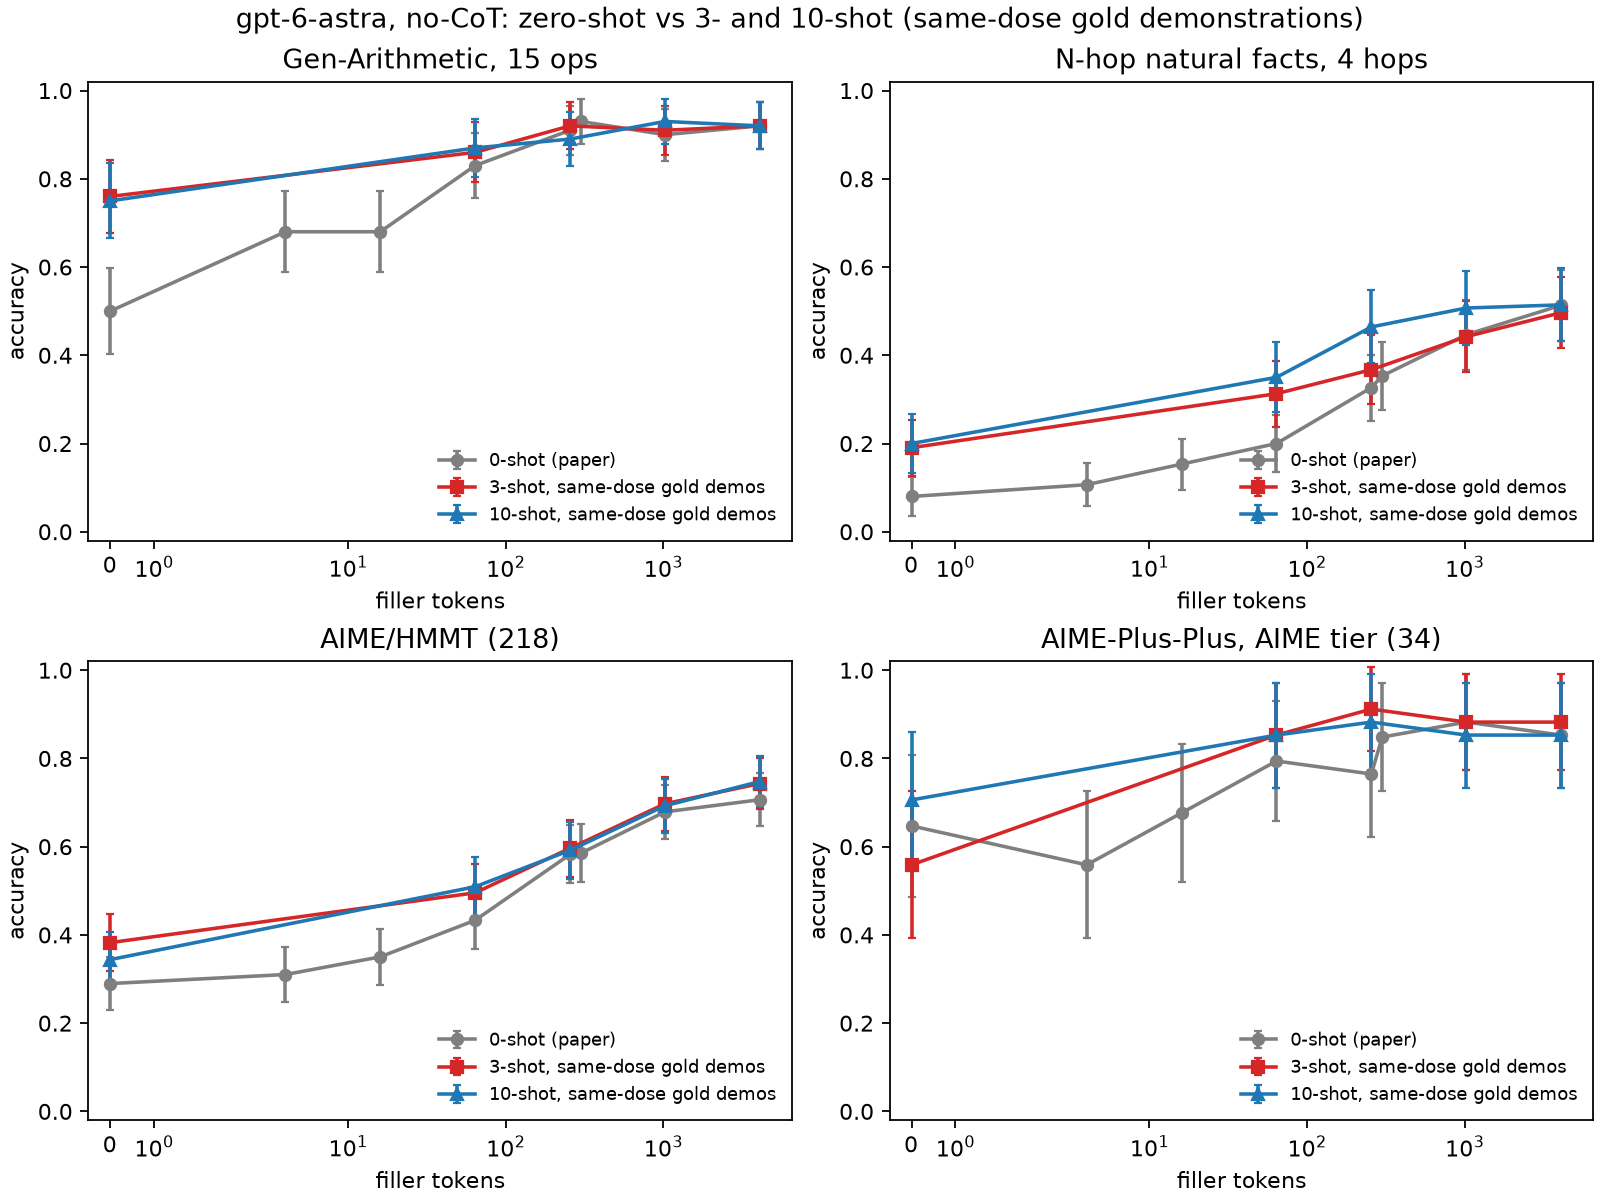
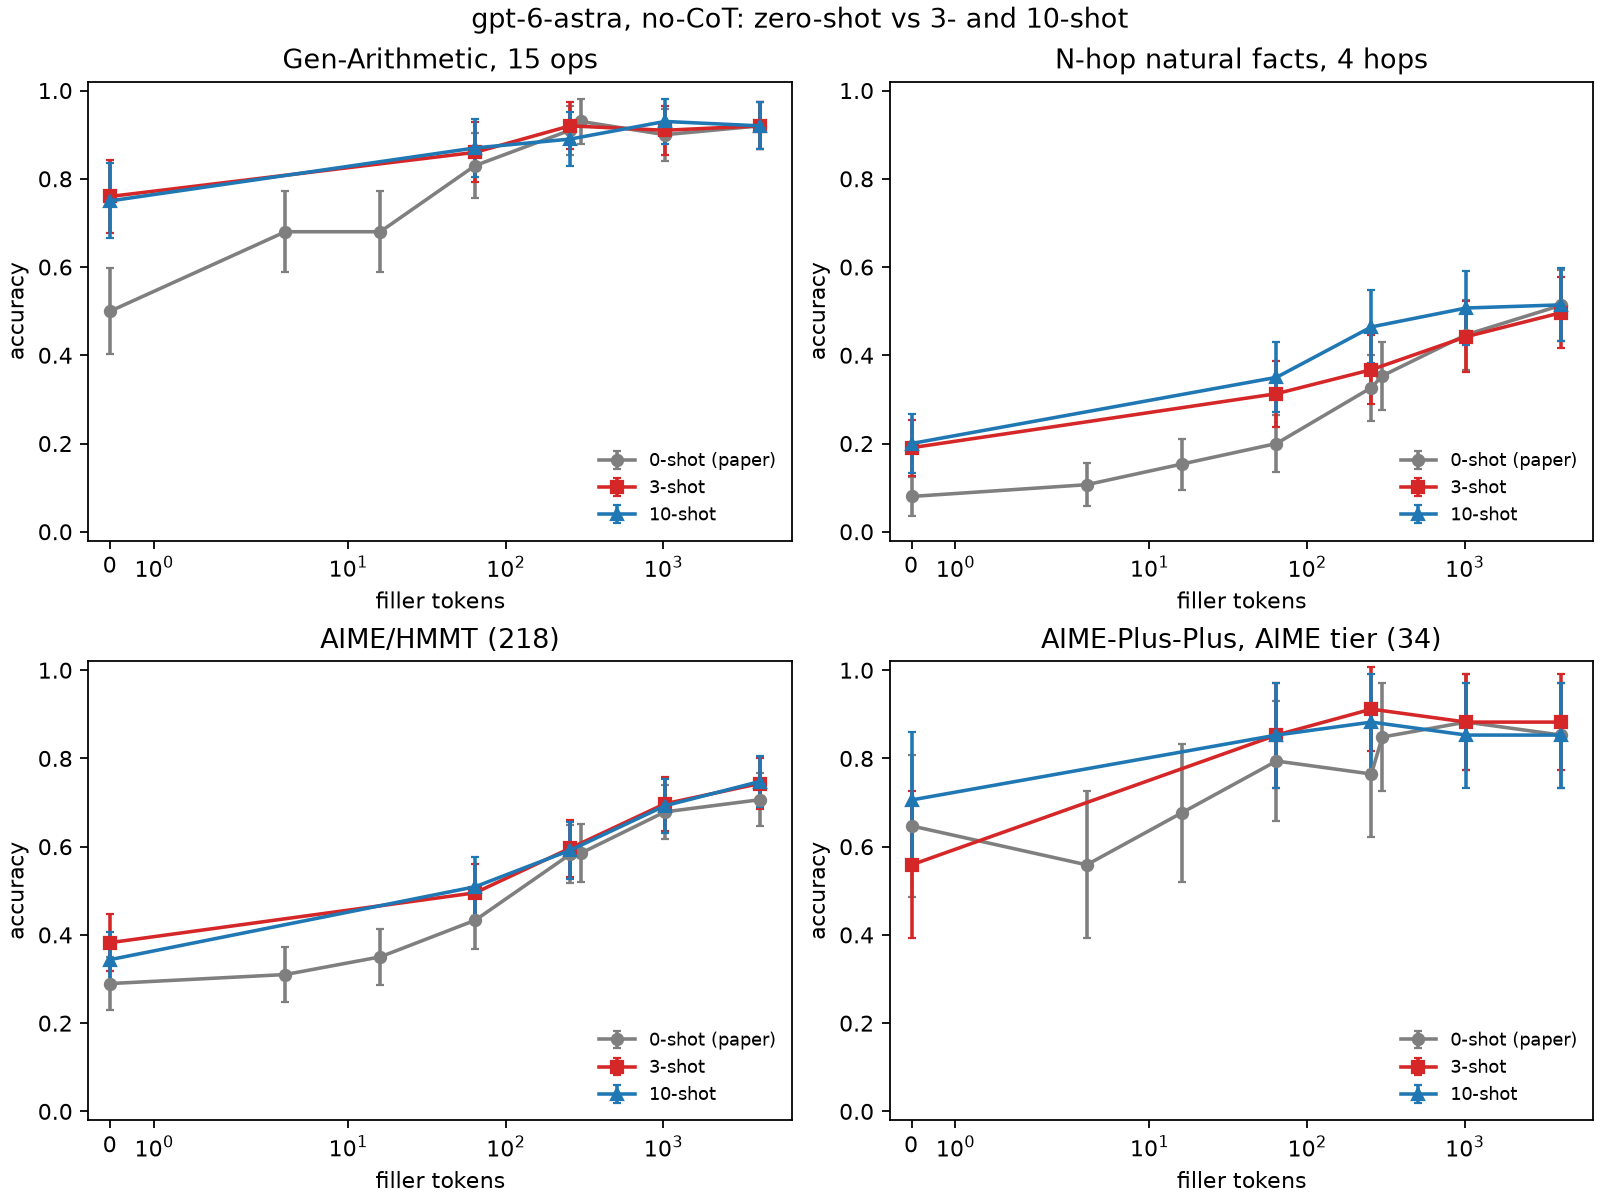
fewshot_astra figure: shorter legend and title

diff --git a/src/nf/fewshot_astra.py b/src/nf/fewshot_astra.py
@@ -61,8 +61,8 @@ def main():
     for ax, (key, (task, depth, ztag, title)) in zip(axes.flat, PANELS.items()):
         for label, d, col, mk in (
             ("0-shot (paper)", _select(zero[ztag], task, depth), "tab:gray", "o"),
-            ("3-shot, same-dose gold demos", _select(few, task, depth), "tab:red", "s"),
-            ("10-shot, same-dose gold demos", _select(few10, task, depth), "tab:blue", "^"),
+            ("3-shot", _select(few, task, depth), "tab:red", "s"),
+            ("10-shot", _select(few10, task, depth), "tab:blue", "^"),
         ):
             g = _curve(d)
             ax.errorbar(
@@ -90,7 +90,7 @@ def main():
         ax.set_xscale("symlog", linthresh=4)
         ax.set(xlim=(-0.5, MAX_K * 1.6), ylim=(-0.02, 1.02), title=title, xlabel="filler tokens", ylabel="accuracy")
         ax.legend(frameon=False, fontsize=8, loc="lower right")
-    fig.suptitle("gpt-6-astra, no-CoT: zero-shot vs 3- and 10-shot (same-dose gold demonstrations)", fontsize=12)
+    fig.suptitle("gpt-6-astra, no-CoT: zero-shot vs 3- and 10-shot", fontsize=12)
     out = tag_dir("fewshot_astra") / "figs"
     out.mkdir(parents=True, exist_ok=True)
     fig.savefig(out / "fewshot_astra.png", dpi=160)
